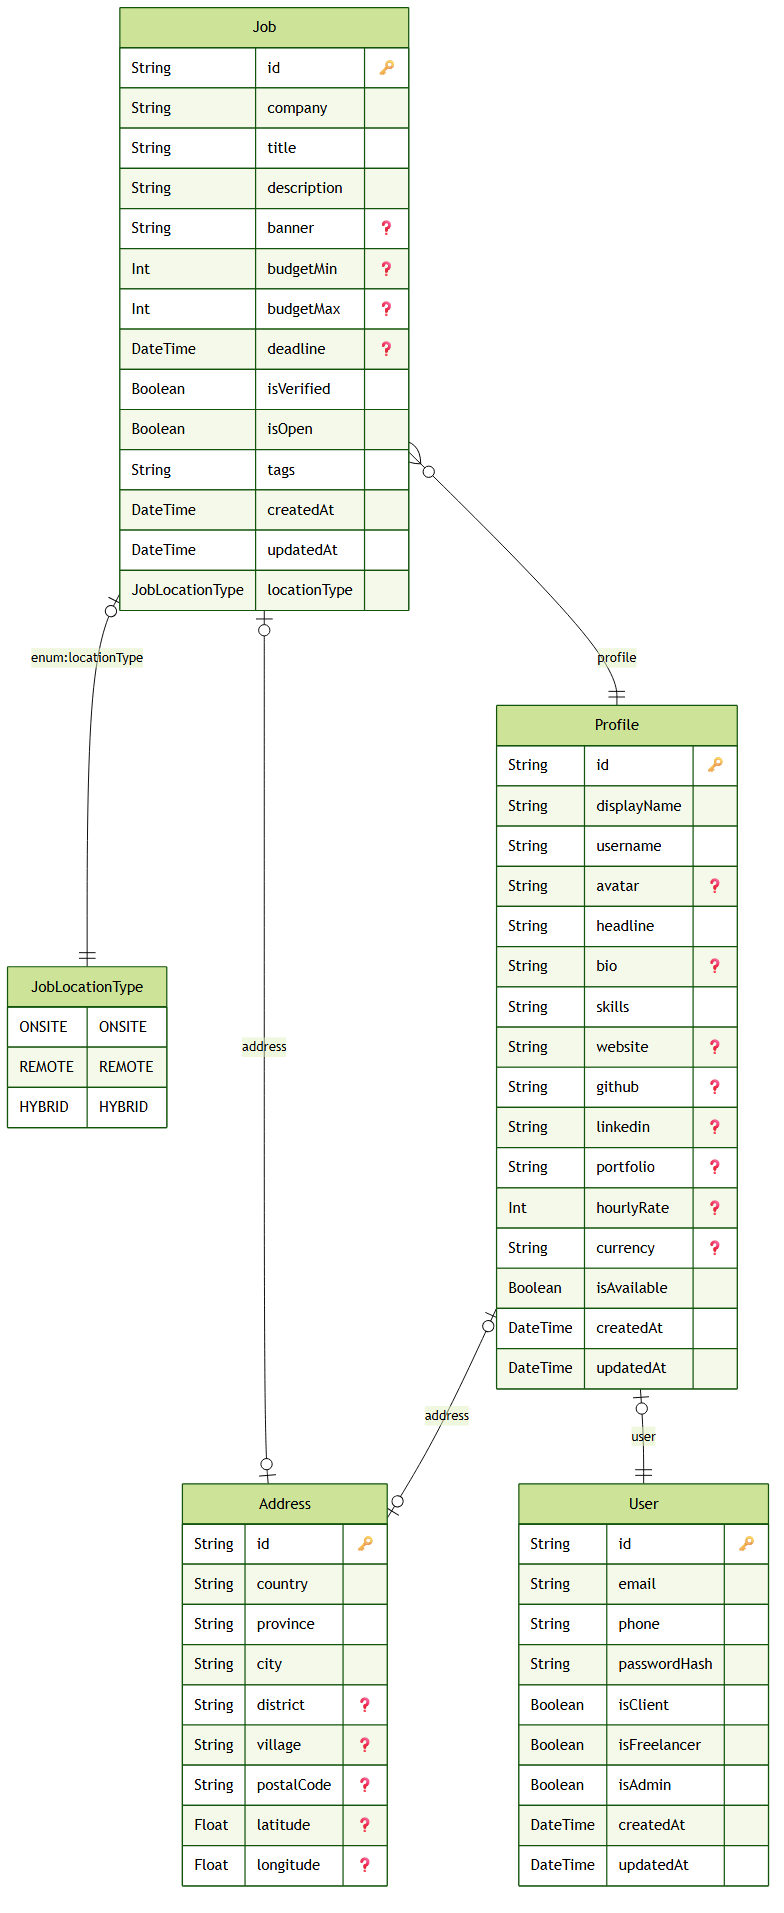
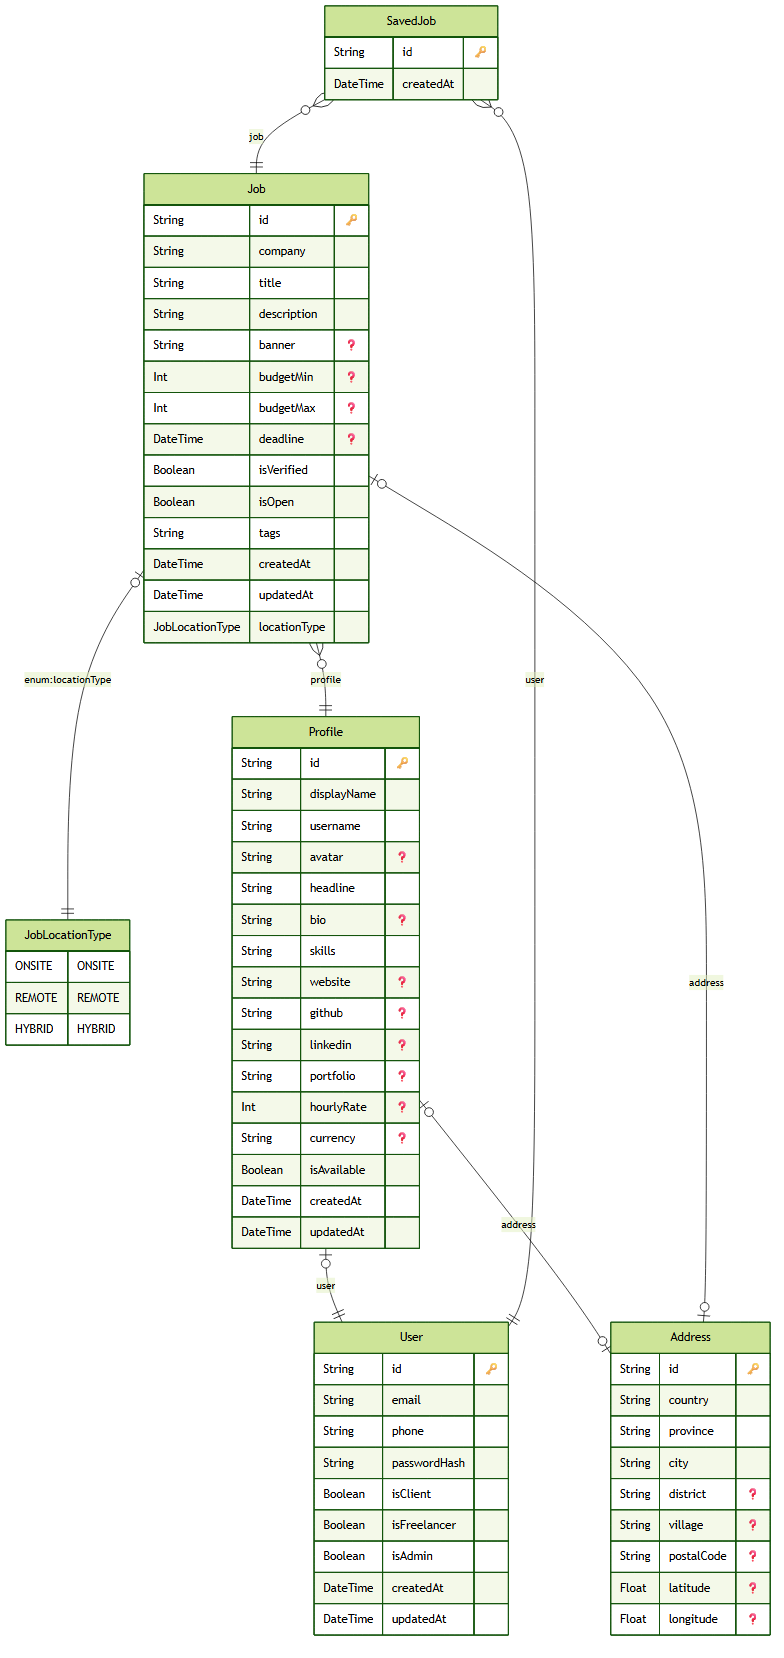
add:table savedJob in database

diff --git a/src/app/api/saved/route.ts b/src/app/api/saved/route.ts
@@ -1,0 +1,68 @@
+// import { prisma } from "@/lib/prisma";
+// import { getCurrentUser } from "@/lib/auth";
+
+// // GET -> list semua job yang disimpan user
+// export async function GET() {
+//   const user = await getCurrentUser();
+//   if (!user) {
+//     return Response.json({ message: "Unauthorized" }, { status: 401 });
+//   }
+
+//   const saved = await prisma.savedJob.findMany({
+//     where: { userId: user.id },
+//     include: { job: true },
+//     orderBy: { createdAt: "desc" },
+//   });
+
+//   return Response.json({ saved });
+// }
+
+// // POST -> simpan job (body: { jobId: string })
+// export async function POST(request: Request) {
+//   const user = await getCurrentUser();
+//   if (!user) {
+//     return Response.json({ message: "Unauthorized" }, { status: 401 });
+//   }
+
+//   try {
+//     const { jobId } = await request.json();
+//     if (!jobId) {
+//       return Response.json({ message: "jobId is required" }, { status: 400 });
+//     }
+
+//     const saved = await prisma.savedJob.create({
+//       data: { userId: user.id, jobId },
+//     });
+
+//     return Response.json({ saved }, { status: 201 });
+//   } catch (error) {
+//     // kemungkinan besar unique constraint violation (udah pernah disimpan)
+//     return Response.json(
+//       { message: "Job already saved or invalid jobId" },
+//       { status: 400 },
+//     );
+//   }
+// }
+
+// // DELETE -> hapus dari simpanan (body: { jobId: string })
+// export async function DELETE(request: Request) {
+//   const user = await getCurrentUser();
+//   if (!user) {
+//     return Response.json({ message: "Unauthorized" }, { status: 401 });
+//   }
+
+//   try {
+//     const { jobId } = await request.json();
+//     if (!jobId) {
+//       return Response.json({ message: "jobId is required" }, { status: 400 });
+//     }
+
+//     await prisma.savedJob.delete({
+//       where: { userId_jobId: { userId: user.id, jobId } },
+//     });
+
+//     return Response.json({ message: "Removed" });
+//   } catch (error) {
+//     return Response.json({ message: "Failed to remove" }, { status: 400 });
+//   }
+// }